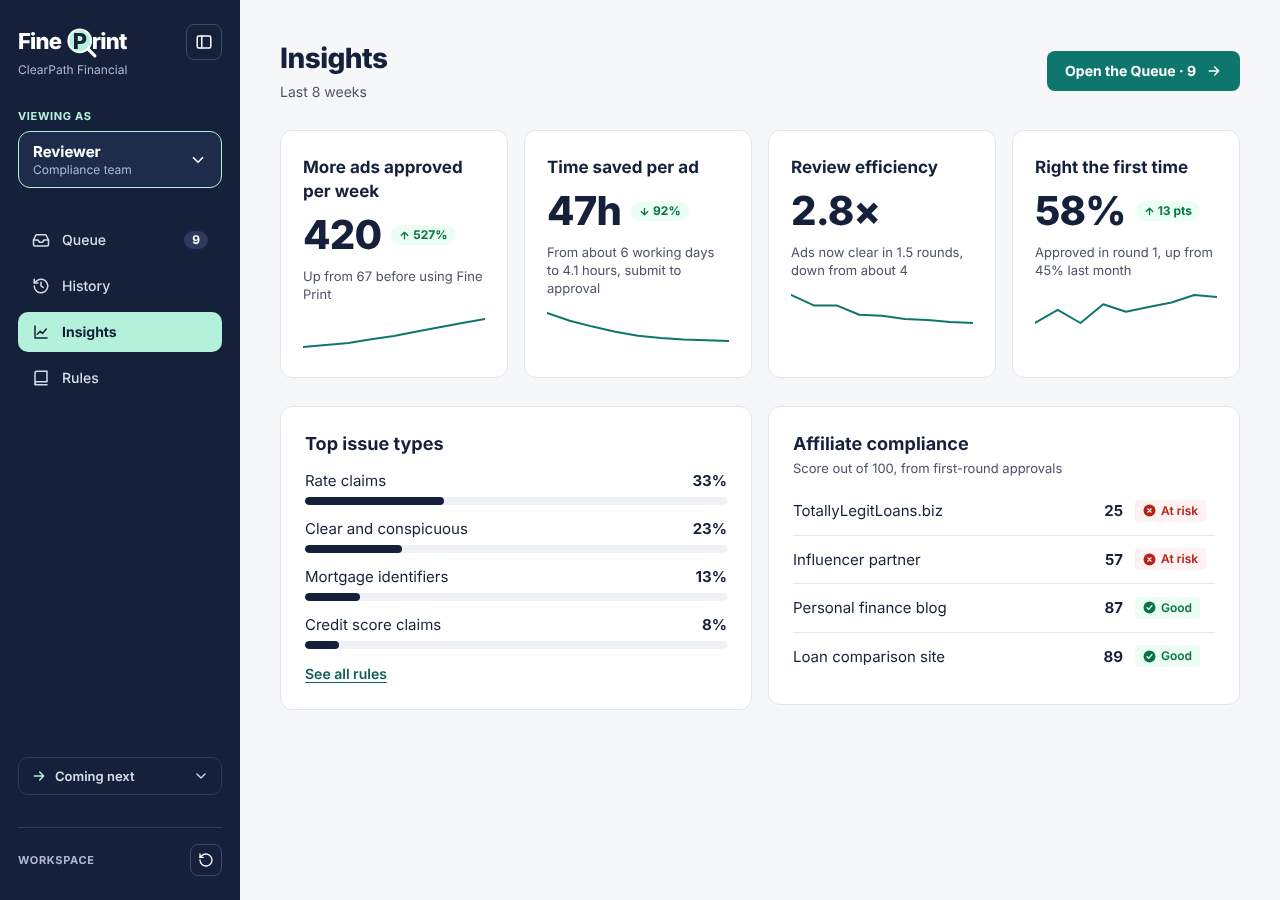
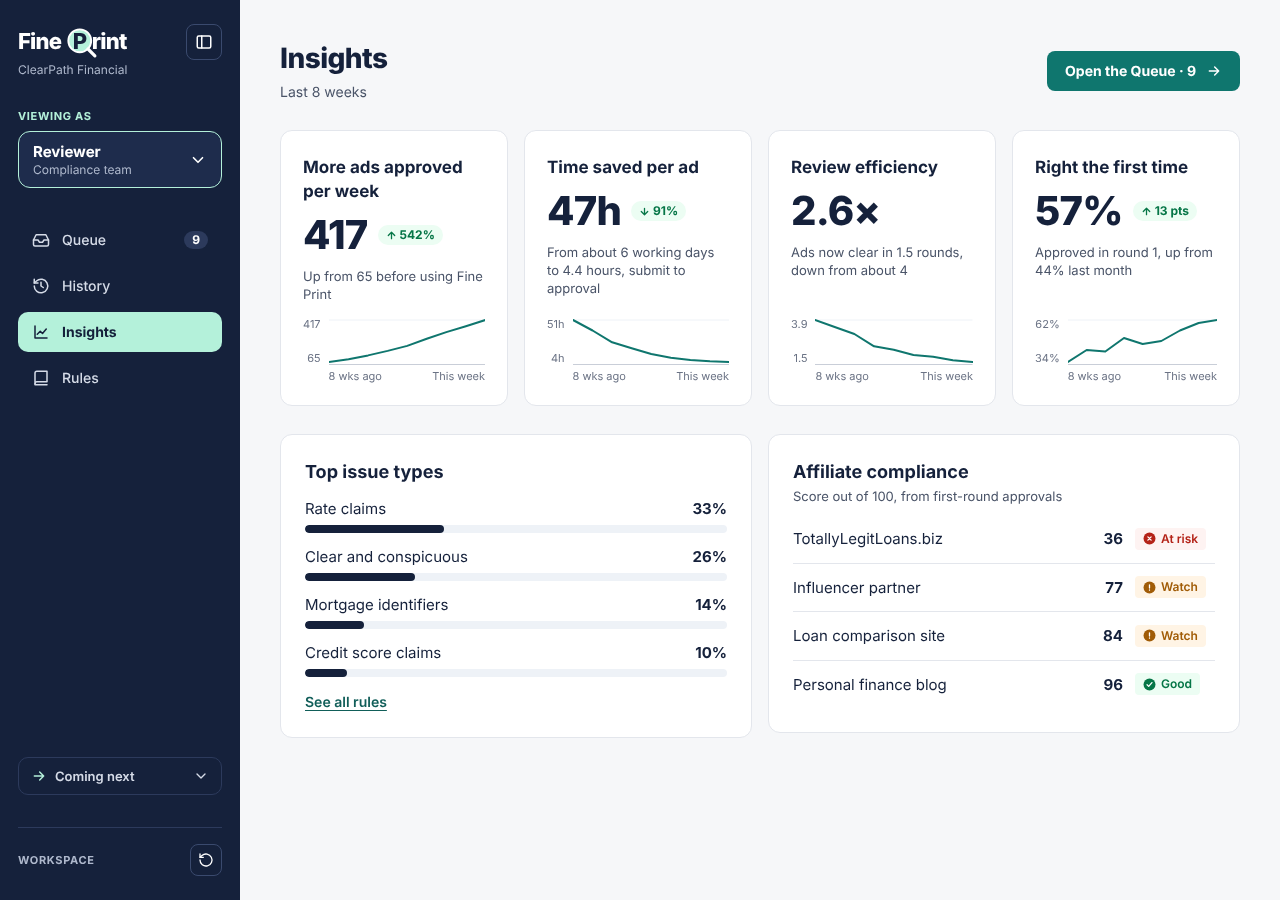
Insights charts show their scale
Each sparkline has its highest and lowest values on the left, a
baseline with 8 wks ago / This week, and the full weekly series for
screen readers. The four charts line up at the bottom of their cards.

Claude-Session: https://claude.ai/code/session_01GajTyz92bBm6dN9cgoMqN2

diff --git a/src/pages/InsightsPage.tsx b/src/pages/InsightsPage.tsx
@@ -29,27 +29,51 @@ const AFFILIATE_TAG = {
   at_risk: { kind: 'critical', label: 'At risk' },
 } as const
 
-/** A teal line through the weekly values; the trend badge and note carry the meaning in words. */
-function Sparkline({ series, label }: { series: Array<number | null>; label: string }) {
+/** How each metric's values read on the chart's axis. */
+const FORMAT: Record<string, (v: number) => string> = {
+  approved: (v) => `${Math.round(v)}`,
+  turnaround: (v) => `${Math.round(v)}h`,
+  rounds: (v) => v.toFixed(1),
+  first_round: (v) => `${Math.round(v)}%`,
+}
+
+/** The weekly values as a small line chart, with its scale: highest and lowest on the left, weeks along the bottom. */
+function Sparkline({ series, label, format }: { series: Array<number | null>; label: string; format: (v: number) => string }) {
   const points = series.map((v, i) => [i, v] as const).filter((p): p is readonly [number, number] => p[1] !== null)
   if (points.length < 2) return null
   const values = points.map((p) => p[1])
   const min = Math.min(...values)
-  const range = Math.max(...values) - min || 1
+  const max = Math.max(...values)
+  const range = max - min || 1
   const width = 180
-  const height = 32
+  const height = 48
   const step = width / (series.length - 1)
-  const line = points.map(([i, v]) => `${(i * step).toFixed(1)},${(height - 2 - ((v - min) / range) * (height - 4)).toFixed(1)}`).join(' ')
+  const y = (v: number) => height - 3 - ((v - min) / range) * (height - 6)
+  const line = points.map(([i, v]) => `${(i * step).toFixed(1)},${y(v).toFixed(1)}`).join(' ')
+  const axis = { fontSize: 11, lineHeight: '14px', color: '#6B7385' } as const
   return (
-    <svg
-      viewBox={`0 0 ${width} ${height}`}
-      preserveAspectRatio="none"
-      role="img"
-      aria-label={`${label}, week by week: from ${values[0]} to ${values[values.length - 1]}`}
-      style={{ width: '100%', height }}
-    >
-      <polyline points={line} fill="none" stroke="#0F766E" strokeWidth={2} strokeLinejoin="round" strokeLinecap="round" vectorEffect="non-scaling-stroke" />
-    </svg>
+    <figure style={{ margin: 0, display: 'grid', gridTemplateColumns: 'auto 1fr', columnGap: 8, rowGap: 4 }}>
+      <div aria-hidden="true" style={{ ...axis, display: 'flex', flexDirection: 'column', justifyContent: 'space-between', textAlign: 'right' }}>
+        <span>{format(max)}</span>
+        <span>{format(min)}</span>
+      </div>
+      <svg
+        viewBox={`0 0 ${width} ${height}`}
+        preserveAspectRatio="none"
+        role="img"
+        aria-label={`${label}, week by week from 8 weeks ago to this week: ${values.map(format).join(', ')}`}
+        style={{ width: '100%', height, display: 'block' }}
+      >
+        <line x1={0} x2={width} y1={y(max)} y2={y(max)} stroke="#EEF2F7" strokeWidth={1} vectorEffect="non-scaling-stroke" />
+        <line x1={0} x2={width} y1={height - 0.5} y2={height - 0.5} stroke="#C9CED8" strokeWidth={1} vectorEffect="non-scaling-stroke" />
+        <polyline points={line} fill="none" stroke="#0F766E" strokeWidth={2} strokeLinejoin="round" strokeLinecap="round" vectorEffect="non-scaling-stroke" />
+      </svg>
+      <span />
+      <div aria-hidden="true" style={{ ...axis, display: 'flex', justifyContent: 'space-between' }}>
+        <span>8 wks ago</span>
+        <span>This week</span>
+      </div>
+    </figure>
   )
 }
 
@@ -64,8 +88,9 @@ function MetricCard({ metric }: { metric: Metric }) {
         {metric.trend && <TrendBadge trend={metric.trend} />}
       </div>
       <p style={{ margin: 0, fontSize: 13, lineHeight: '18px', color: '#4A5468', minHeight: 36 }}>{metric.note}</p>
-      <div style={{ marginTop: 6 }}>
-        <Sparkline series={metric.series} label={metric.label} />
+      {/* Pinned to the bottom, so the four charts line up whatever the text above them. */}
+      <div style={{ marginTop: 'auto', paddingTop: 6 }}>
+        <Sparkline series={metric.series} label={metric.label} format={FORMAT[metric.key] ?? String} />
       </div>
     </section>
   )
